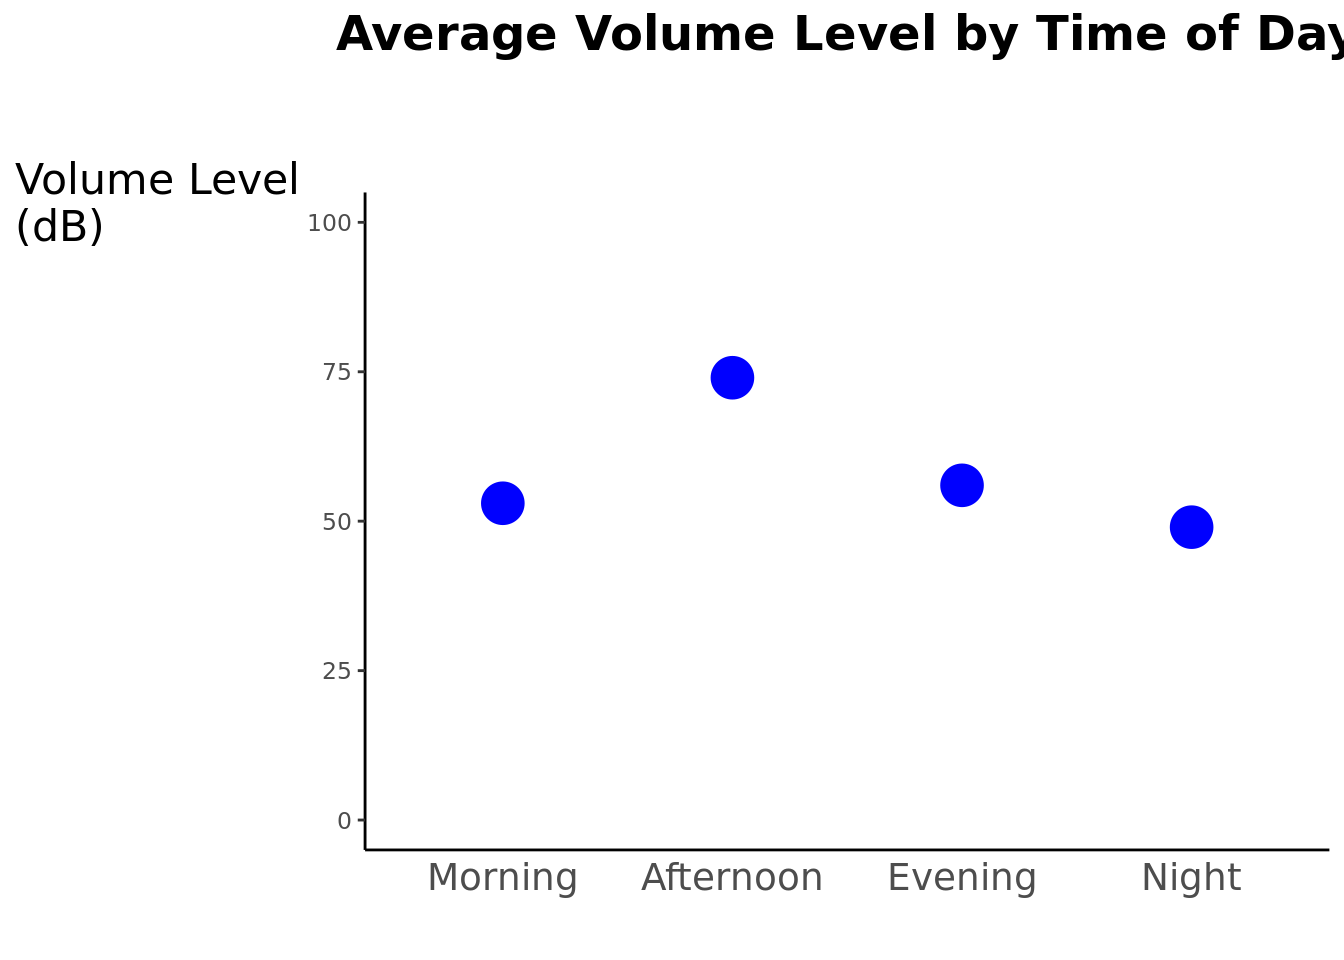
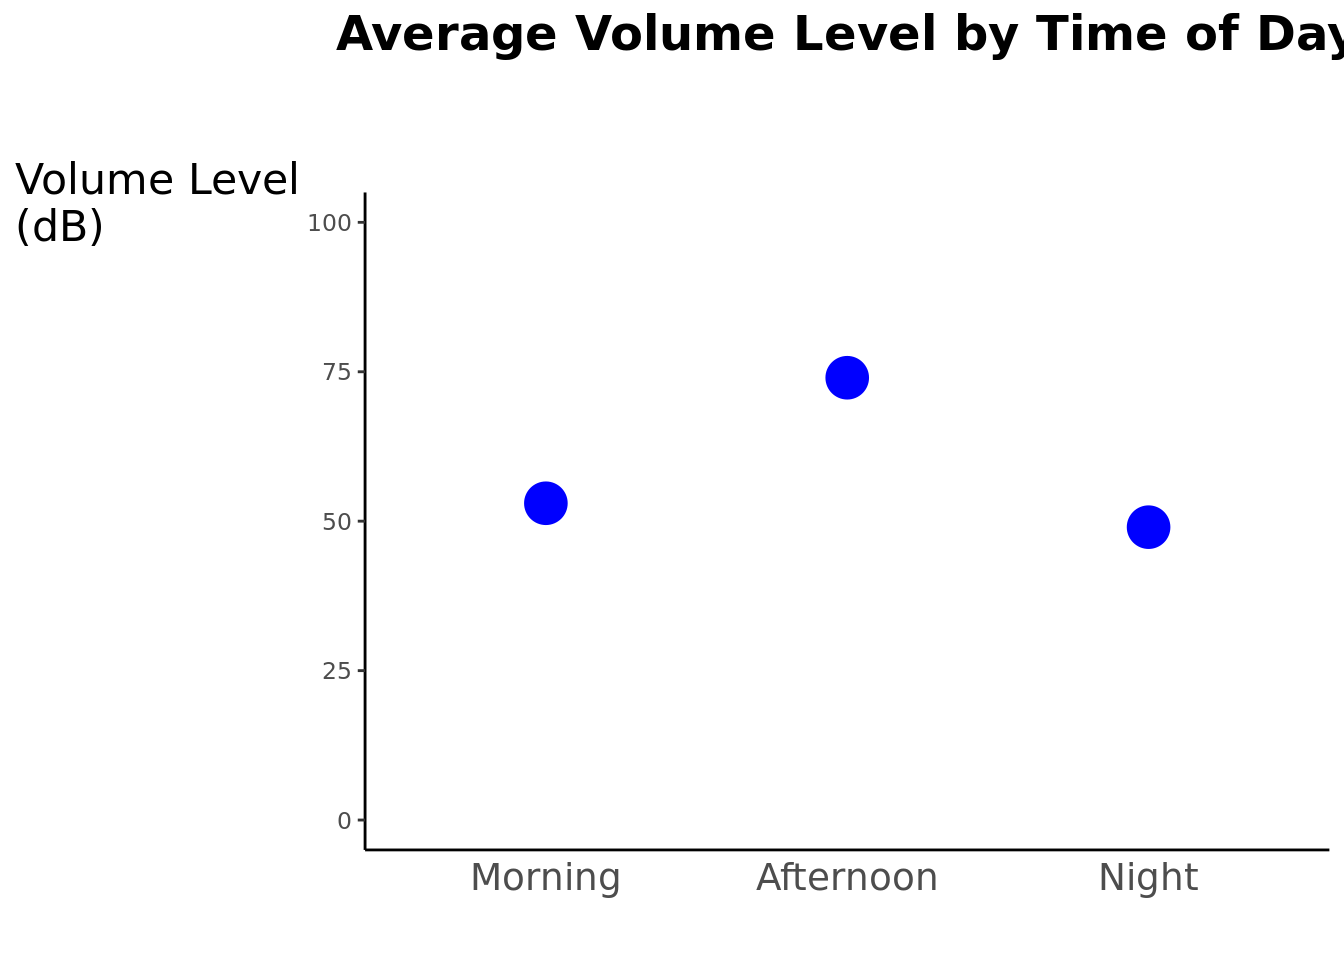
Added spotify data story

diff --git a/project-r-code.html b/project-r-code.html
@@ -207,7 +207,7 @@ dbl (1): Value
 </div>
 <div class="sourceCode cell-code" id="cb24"><pre class="sourceCode r code-with-copy"><code class="sourceCode r"><span id="cb24-1"><a href="#cb24-1" aria-hidden="true" tabindex="-1"></a>spotify_data <span class="ot">&lt;-</span> <span class="fu">read_csv</span>(<span class="st">"datasets/spotify_listening_habits.csv"</span>)</span></code><button title="Copy to Clipboard" class="code-copy-button"><i class="bi"></i></button></pre></div>
 <div class="cell-output cell-output-stderr">
-<pre><code>Rows: 12 Columns: 3
+<pre><code>Rows: 9 Columns: 3
 ── Column specification ────────────────────────────────────────────────────────
 Delimiter: ","
 chr (2): TimeOfDay, Measure
@@ -812,6 +812,133 @@ dbl (2): notebook_price, median_household_income
 </div>
 </div>
 <div class="sourceCode cell-code" id="cb63"><pre class="sourceCode r code-with-copy"><code class="sourceCode r"><span id="cb63-1"><a href="#cb63-1" aria-hidden="true" tabindex="-1"></a><span class="fu">ggsave</span>(<span class="st">"recycling_contam_Scatter.png"</span>, <span class="at">device =</span> <span class="st">"png"</span>, <span class="at">width =</span> <span class="dv">14</span>, <span class="at">height =</span> <span class="dv">8</span>)</span></code><button title="Copy to Clipboard" class="code-copy-button"><i class="bi"></i></button></pre></div>
+</div>
+<p>Spotify data story</p>
+<div class="cell">
+<div class="sourceCode cell-code" id="cb64"><pre class="sourceCode r code-with-copy"><code class="sourceCode r"><span id="cb64-1"><a href="#cb64-1" aria-hidden="true" tabindex="-1"></a>spotify_data <span class="ot">&lt;-</span> spotify_data <span class="sc">|&gt;</span></span>
+<span id="cb64-2"><a href="#cb64-2" aria-hidden="true" tabindex="-1"></a>  <span class="fu">mutate</span>(</span>
+<span id="cb64-3"><a href="#cb64-3" aria-hidden="true" tabindex="-1"></a>    <span class="at">TimeOfDay =</span> <span class="fu">factor</span>(TimeOfDay,</span>
+<span id="cb64-4"><a href="#cb64-4" aria-hidden="true" tabindex="-1"></a>                       <span class="at">levels =</span> <span class="fu">c</span>(<span class="st">"Morning"</span>, <span class="st">"Afternoon"</span>, <span class="st">"Night"</span>))</span>
+<span id="cb64-5"><a href="#cb64-5" aria-hidden="true" tabindex="-1"></a>  )</span>
+<span id="cb64-6"><a href="#cb64-6" aria-hidden="true" tabindex="-1"></a></span>
+<span id="cb64-7"><a href="#cb64-7" aria-hidden="true" tabindex="-1"></a>spotify_data <span class="sc">|&gt;</span></span>
+<span id="cb64-8"><a href="#cb64-8" aria-hidden="true" tabindex="-1"></a>  <span class="fu">filter</span>(Measure <span class="sc">==</span> <span class="st">"AvgListeningDuration"</span>) <span class="sc">|&gt;</span></span>
+<span id="cb64-9"><a href="#cb64-9" aria-hidden="true" tabindex="-1"></a>  <span class="fu">ggplot</span>(<span class="fu">aes</span>(<span class="at">x =</span> TimeOfDay, <span class="at">y =</span> Value)) <span class="sc">+</span></span>
+<span id="cb64-10"><a href="#cb64-10" aria-hidden="true" tabindex="-1"></a>  <span class="fu">geom_col</span>(<span class="at">fill =</span> <span class="st">"steelblue"</span>, <span class="at">width =</span> <span class="fl">0.4</span>) <span class="sc">+</span></span>
+<span id="cb64-11"><a href="#cb64-11" aria-hidden="true" tabindex="-1"></a>  <span class="fu">scale_y_continuous</span>(<span class="at">breaks =</span> <span class="fu">seq</span>(<span class="dv">0</span>, <span class="dv">60</span>, <span class="dv">10</span>),</span>
+<span id="cb64-12"><a href="#cb64-12" aria-hidden="true" tabindex="-1"></a>                     <span class="at">expand =</span> <span class="fu">expansion</span>(<span class="at">mult =</span> <span class="fu">c</span>(<span class="dv">0</span>, <span class="fl">0.05</span>))) <span class="sc">+</span></span>
+<span id="cb64-13"><a href="#cb64-13" aria-hidden="true" tabindex="-1"></a>  <span class="fu">labs</span>(<span class="at">x =</span> <span class="st">" "</span>, <span class="at">y =</span> <span class="st">"Duration</span><span class="sc">\n</span><span class="st">(mins)"</span>, </span>
+<span id="cb64-14"><a href="#cb64-14" aria-hidden="true" tabindex="-1"></a>       <span class="at">title =</span> <span class="st">"Avg. Listening Duration by Time of Day"</span>) <span class="sc">+</span></span>
+<span id="cb64-15"><a href="#cb64-15" aria-hidden="true" tabindex="-1"></a>  <span class="fu">theme_classic</span>() <span class="sc">+</span></span>
+<span id="cb64-16"><a href="#cb64-16" aria-hidden="true" tabindex="-1"></a>  <span class="fu">theme</span>(</span>
+<span id="cb64-17"><a href="#cb64-17" aria-hidden="true" tabindex="-1"></a>    <span class="at">axis.text.x =</span> <span class="fu">element_text</span>(<span class="at">size =</span> <span class="dv">14</span>),  </span>
+<span id="cb64-18"><a href="#cb64-18" aria-hidden="true" tabindex="-1"></a>    <span class="at">axis.title.x =</span> <span class="fu">element_text</span>(<span class="at">size =</span> <span class="dv">16</span>),</span>
+<span id="cb64-19"><a href="#cb64-19" aria-hidden="true" tabindex="-1"></a>    <span class="at">axis.title.y =</span> <span class="fu">element_text</span>(<span class="at">size =</span> <span class="dv">16</span>, <span class="at">angle =</span> <span class="dv">0</span>, <span class="at">vjust =</span> <span class="fl">1.05</span>, <span class="at">hjust =</span> <span class="dv">0</span>),</span>
+<span id="cb64-20"><a href="#cb64-20" aria-hidden="true" tabindex="-1"></a>    <span class="at">plot.title =</span> <span class="fu">element_text</span>(</span>
+<span id="cb64-21"><a href="#cb64-21" aria-hidden="true" tabindex="-1"></a>      <span class="at">face =</span> <span class="st">"bold"</span>, </span>
+<span id="cb64-22"><a href="#cb64-22" aria-hidden="true" tabindex="-1"></a>      <span class="at">hjust =</span> <span class="fl">0.5</span>,</span>
+<span id="cb64-23"><a href="#cb64-23" aria-hidden="true" tabindex="-1"></a>      <span class="at">size =</span> <span class="dv">18</span>,</span>
+<span id="cb64-24"><a href="#cb64-24" aria-hidden="true" tabindex="-1"></a>      <span class="at">margin =</span> <span class="fu">margin</span>(<span class="at">b =</span> <span class="dv">50</span>)</span>
+<span id="cb64-25"><a href="#cb64-25" aria-hidden="true" tabindex="-1"></a>    ),</span>
+<span id="cb64-26"><a href="#cb64-26" aria-hidden="true" tabindex="-1"></a>    <span class="at">axis.ticks.x =</span> <span class="fu">element_blank</span>(),</span>
+<span id="cb64-27"><a href="#cb64-27" aria-hidden="true" tabindex="-1"></a>    <span class="at">panel.grid.major =</span> <span class="fu">element_blank</span>(),  </span>
+<span id="cb64-28"><a href="#cb64-28" aria-hidden="true" tabindex="-1"></a>    <span class="at">panel.grid.minor =</span> <span class="fu">element_blank</span>()   </span>
+<span id="cb64-29"><a href="#cb64-29" aria-hidden="true" tabindex="-1"></a>  )</span></code><button title="Copy to Clipboard" class="code-copy-button"><i class="bi"></i></button></pre></div>
+<div class="cell-output-display">
+<div>
+<figure class="figure">
+<p><img src="project-r-code_files/figure-html/spotify-bar-chart-1.png" class="img-fluid figure-img" width="672"></p>
+</figure>
+</div>
+</div>
+<div class="sourceCode cell-code" id="cb65"><pre class="sourceCode r code-with-copy"><code class="sourceCode r"><span id="cb65-1"><a href="#cb65-1" aria-hidden="true" tabindex="-1"></a><span class="fu">ggsave</span>(<span class="st">"Spotify_duration_bar.png"</span>, <span class="at">device =</span> <span class="st">"png"</span>, <span class="at">width =</span> <span class="dv">8</span>, <span class="at">height =</span> <span class="dv">5</span>)</span></code><button title="Copy to Clipboard" class="code-copy-button"><i class="bi"></i></button></pre></div>
+</div>
+<div class="cell">
+<div class="sourceCode cell-code" id="cb66"><pre class="sourceCode r code-with-copy"><code class="sourceCode r"><span id="cb66-1"><a href="#cb66-1" aria-hidden="true" tabindex="-1"></a>df <span class="ot">&lt;-</span> spotify_data <span class="sc">|&gt;</span> <span class="fu">filter</span>(Measure <span class="sc">==</span> <span class="st">"AvgSongTempo"</span>)</span>
+<span id="cb66-2"><a href="#cb66-2" aria-hidden="true" tabindex="-1"></a></span>
+<span id="cb66-3"><a href="#cb66-3" aria-hidden="true" tabindex="-1"></a>ymax <span class="ot">&lt;-</span> <span class="fu">max</span>(df<span class="sc">$</span>Value, <span class="at">na.rm =</span> <span class="cn">TRUE</span>)</span>
+<span id="cb66-4"><a href="#cb66-4" aria-hidden="true" tabindex="-1"></a>yupper <span class="ot">&lt;-</span> <span class="fu">max</span>(<span class="dv">50</span>, <span class="fu">ceiling</span>(ymax <span class="sc">/</span> <span class="dv">10</span>) <span class="sc">*</span> <span class="dv">10</span>)</span>
+<span id="cb66-5"><a href="#cb66-5" aria-hidden="true" tabindex="-1"></a></span>
+<span id="cb66-6"><a href="#cb66-6" aria-hidden="true" tabindex="-1"></a></span>
+<span id="cb66-7"><a href="#cb66-7" aria-hidden="true" tabindex="-1"></a>spotify_data <span class="sc">|&gt;</span></span>
+<span id="cb66-8"><a href="#cb66-8" aria-hidden="true" tabindex="-1"></a>  <span class="fu">filter</span>(Measure <span class="sc">==</span> <span class="st">"AvgSongTempo"</span>) <span class="sc">|&gt;</span></span>
+<span id="cb66-9"><a href="#cb66-9" aria-hidden="true" tabindex="-1"></a>  <span class="fu">ggplot</span>(<span class="fu">aes</span>(<span class="at">x =</span> TimeOfDay, <span class="at">y =</span> Value)) <span class="sc">+</span></span>
+<span id="cb66-10"><a href="#cb66-10" aria-hidden="true" tabindex="-1"></a>  <span class="fu">geom_segment</span>(<span class="fu">aes</span>(<span class="at">xend =</span> TimeOfDay, <span class="at">yend =</span> <span class="dv">0</span>), <span class="at">color =</span> <span class="st">"blue"</span>, <span class="at">linewidth =</span> <span class="fl">1.8</span>) <span class="sc">+</span></span>
+<span id="cb66-11"><a href="#cb66-11" aria-hidden="true" tabindex="-1"></a>  <span class="fu">geom_point</span>(<span class="at">color =</span> <span class="st">"blue"</span>, <span class="at">size =</span> <span class="dv">7</span>) <span class="sc">+</span></span>
+<span id="cb66-12"><a href="#cb66-12" aria-hidden="true" tabindex="-1"></a>  <span class="fu">labs</span>(</span>
+<span id="cb66-13"><a href="#cb66-13" aria-hidden="true" tabindex="-1"></a>    <span class="at">title =</span> <span class="st">"Avg. Song Tempo by Time of Day"</span>,</span>
+<span id="cb66-14"><a href="#cb66-14" aria-hidden="true" tabindex="-1"></a>    <span class="at">x =</span> <span class="st">" "</span>,</span>
+<span id="cb66-15"><a href="#cb66-15" aria-hidden="true" tabindex="-1"></a>    <span class="at">y =</span> <span class="st">"Tempo</span><span class="sc">\n</span><span class="st">(bpm)"</span></span>
+<span id="cb66-16"><a href="#cb66-16" aria-hidden="true" tabindex="-1"></a>  ) <span class="sc">+</span></span>
+<span id="cb66-17"><a href="#cb66-17" aria-hidden="true" tabindex="-1"></a>  <span class="fu">scale_y_continuous</span>(</span>
+<span id="cb66-18"><a href="#cb66-18" aria-hidden="true" tabindex="-1"></a>    <span class="at">limits =</span> <span class="fu">c</span>(<span class="dv">0</span>, yupper),</span>
+<span id="cb66-19"><a href="#cb66-19" aria-hidden="true" tabindex="-1"></a>    <span class="at">breaks =</span> <span class="fu">seq</span>(<span class="dv">0</span>, yupper, <span class="at">by =</span> <span class="dv">25</span>),</span>
+<span id="cb66-20"><a href="#cb66-20" aria-hidden="true" tabindex="-1"></a>    <span class="at">expand =</span> <span class="fu">c</span>(<span class="dv">0</span>, <span class="dv">0</span>)</span>
+<span id="cb66-21"><a href="#cb66-21" aria-hidden="true" tabindex="-1"></a>  ) <span class="sc">+</span></span>
+<span id="cb66-22"><a href="#cb66-22" aria-hidden="true" tabindex="-1"></a>  <span class="fu">theme_classic</span>(<span class="at">base_size =</span> <span class="dv">16</span>) <span class="sc">+</span></span>
+<span id="cb66-23"><a href="#cb66-23" aria-hidden="true" tabindex="-1"></a>  <span class="fu">theme</span>(</span>
+<span id="cb66-24"><a href="#cb66-24" aria-hidden="true" tabindex="-1"></a>    <span class="at">plot.title =</span> <span class="fu">element_text</span>(</span>
+<span id="cb66-25"><a href="#cb66-25" aria-hidden="true" tabindex="-1"></a>      <span class="at">size =</span> <span class="dv">22</span>, </span>
+<span id="cb66-26"><a href="#cb66-26" aria-hidden="true" tabindex="-1"></a>      <span class="at">face =</span> <span class="st">"bold"</span>, </span>
+<span id="cb66-27"><a href="#cb66-27" aria-hidden="true" tabindex="-1"></a>      <span class="at">hjust =</span> <span class="fl">0.5</span>, </span>
+<span id="cb66-28"><a href="#cb66-28" aria-hidden="true" tabindex="-1"></a>      <span class="at">margin =</span> <span class="fu">margin</span>(<span class="at">t =</span> <span class="dv">20</span>, <span class="at">b =</span> <span class="dv">20</span>)</span>
+<span id="cb66-29"><a href="#cb66-29" aria-hidden="true" tabindex="-1"></a>    ),</span>
+<span id="cb66-30"><a href="#cb66-30" aria-hidden="true" tabindex="-1"></a>    <span class="at">axis.text =</span> <span class="fu">element_text</span>(<span class="at">size =</span> <span class="dv">14</span>),</span>
+<span id="cb66-31"><a href="#cb66-31" aria-hidden="true" tabindex="-1"></a>    <span class="at">axis.title.x =</span> <span class="fu">element_text</span>(<span class="at">size =</span> <span class="dv">16</span>, <span class="at">margin =</span> <span class="fu">margin</span>(<span class="at">t =</span> <span class="dv">20</span>, <span class="at">b =</span> <span class="dv">20</span>)),</span>
+<span id="cb66-32"><a href="#cb66-32" aria-hidden="true" tabindex="-1"></a>    <span class="at">axis.title.y =</span> <span class="fu">element_text</span>(</span>
+<span id="cb66-33"><a href="#cb66-33" aria-hidden="true" tabindex="-1"></a>      <span class="at">angle =</span> <span class="dv">0</span>,  <span class="co"># horizontal</span></span>
+<span id="cb66-34"><a href="#cb66-34" aria-hidden="true" tabindex="-1"></a>      <span class="at">vjust =</span> <span class="dv">1</span>,</span>
+<span id="cb66-35"><a href="#cb66-35" aria-hidden="true" tabindex="-1"></a>      <span class="at">hjust =</span> <span class="fl">0.5</span>,</span>
+<span id="cb66-36"><a href="#cb66-36" aria-hidden="true" tabindex="-1"></a>      <span class="at">size =</span> <span class="dv">16</span>,</span>
+<span id="cb66-37"><a href="#cb66-37" aria-hidden="true" tabindex="-1"></a>      <span class="at">margin =</span> <span class="fu">margin</span>(<span class="at">r =</span> <span class="dv">20</span>)</span>
+<span id="cb66-38"><a href="#cb66-38" aria-hidden="true" tabindex="-1"></a>    ),</span>
+<span id="cb66-39"><a href="#cb66-39" aria-hidden="true" tabindex="-1"></a>    <span class="at">axis.ticks.x =</span> <span class="fu">element_blank</span>(),</span>
+<span id="cb66-40"><a href="#cb66-40" aria-hidden="true" tabindex="-1"></a>    <span class="at">plot.margin =</span> <span class="fu">margin</span>(<span class="dv">10</span>, <span class="dv">20</span>, <span class="dv">10</span>, <span class="dv">40</span>)</span>
+<span id="cb66-41"><a href="#cb66-41" aria-hidden="true" tabindex="-1"></a>  ) <span class="sc">+</span></span>
+<span id="cb66-42"><a href="#cb66-42" aria-hidden="true" tabindex="-1"></a>  <span class="fu">coord_cartesian</span>(<span class="at">clip =</span> <span class="st">"off"</span>)</span></code><button title="Copy to Clipboard" class="code-copy-button"><i class="bi"></i></button></pre></div>
+<div class="cell-output-display">
+<div>
+<figure class="figure">
+<p><img src="project-r-code_files/figure-html/spotify-lollipop-1.png" class="img-fluid figure-img" width="672"></p>
+</figure>
+</div>
+</div>
+<div class="sourceCode cell-code" id="cb67"><pre class="sourceCode r code-with-copy"><code class="sourceCode r"><span id="cb67-1"><a href="#cb67-1" aria-hidden="true" tabindex="-1"></a><span class="fu">ggsave</span>(<span class="st">"Spotify_tempo_lollipop.png"</span>, <span class="at">device =</span> <span class="st">"png"</span>, <span class="at">width =</span> <span class="dv">8</span>, <span class="at">height =</span> <span class="dv">5</span>)</span></code><button title="Copy to Clipboard" class="code-copy-button"><i class="bi"></i></button></pre></div>
+</div>
+<div class="cell">
+<div class="sourceCode cell-code" id="cb68"><pre class="sourceCode r code-with-copy"><code class="sourceCode r"><span id="cb68-1"><a href="#cb68-1" aria-hidden="true" tabindex="-1"></a>spotify_data <span class="sc">|&gt;</span></span>
+<span id="cb68-2"><a href="#cb68-2" aria-hidden="true" tabindex="-1"></a>  <span class="fu">filter</span>(Measure <span class="sc">==</span> <span class="st">"AvgVolumeLevel"</span>) <span class="sc">|&gt;</span></span>
+<span id="cb68-3"><a href="#cb68-3" aria-hidden="true" tabindex="-1"></a>  <span class="fu">ggplot</span>(<span class="fu">aes</span>(<span class="at">x =</span> TimeOfDay, <span class="at">y =</span> Value)) <span class="sc">+</span> </span>
+<span id="cb68-4"><a href="#cb68-4" aria-hidden="true" tabindex="-1"></a>  <span class="fu">geom_point</span>(<span class="at">color =</span> <span class="st">"blue"</span>, <span class="at">size =</span> <span class="dv">7</span>) <span class="sc">+</span></span>
+<span id="cb68-5"><a href="#cb68-5" aria-hidden="true" tabindex="-1"></a>  <span class="fu">scale_y_continuous</span>(<span class="at">limits =</span> <span class="fu">c</span>(<span class="dv">0</span>, <span class="dv">100</span>)) <span class="sc">+</span></span>
+<span id="cb68-6"><a href="#cb68-6" aria-hidden="true" tabindex="-1"></a>  <span class="fu">labs</span>(</span>
+<span id="cb68-7"><a href="#cb68-7" aria-hidden="true" tabindex="-1"></a>    <span class="at">title =</span> <span class="st">"Avg. Volume Level by Time of Day"</span>,</span>
+<span id="cb68-8"><a href="#cb68-8" aria-hidden="true" tabindex="-1"></a>    <span class="at">x =</span> <span class="st">" "</span>,</span>
+<span id="cb68-9"><a href="#cb68-9" aria-hidden="true" tabindex="-1"></a>    <span class="at">y =</span> <span class="st">"Volume Level</span><span class="sc">\n</span><span class="st">(dB)"</span></span>
+<span id="cb68-10"><a href="#cb68-10" aria-hidden="true" tabindex="-1"></a>  ) <span class="sc">+</span></span>
+<span id="cb68-11"><a href="#cb68-11" aria-hidden="true" tabindex="-1"></a>  <span class="fu">theme_classic</span>() <span class="sc">+</span></span>
+<span id="cb68-12"><a href="#cb68-12" aria-hidden="true" tabindex="-1"></a>  <span class="fu">theme</span>(</span>
+<span id="cb68-13"><a href="#cb68-13" aria-hidden="true" tabindex="-1"></a>    <span class="at">axis.text.x =</span> <span class="fu">element_text</span>(<span class="at">size =</span> <span class="dv">14</span>),</span>
+<span id="cb68-14"><a href="#cb68-14" aria-hidden="true" tabindex="-1"></a>    <span class="at">axis.title.x =</span> <span class="fu">element_text</span>(<span class="at">size =</span> <span class="dv">16</span>),</span>
+<span id="cb68-15"><a href="#cb68-15" aria-hidden="true" tabindex="-1"></a>    <span class="at">axis.title.y =</span> <span class="fu">element_text</span>(<span class="at">size =</span> <span class="dv">16</span>, <span class="at">angle =</span> <span class="dv">0</span>, <span class="at">vjust =</span> <span class="fl">1.05</span>, <span class="at">hjust =</span> <span class="dv">0</span>),</span>
+<span id="cb68-16"><a href="#cb68-16" aria-hidden="true" tabindex="-1"></a>    <span class="at">plot.title =</span> <span class="fu">element_text</span>(</span>
+<span id="cb68-17"><a href="#cb68-17" aria-hidden="true" tabindex="-1"></a>      <span class="at">face =</span> <span class="st">"bold"</span>,</span>
+<span id="cb68-18"><a href="#cb68-18" aria-hidden="true" tabindex="-1"></a>      <span class="at">hjust =</span> <span class="fl">0.5</span>,</span>
+<span id="cb68-19"><a href="#cb68-19" aria-hidden="true" tabindex="-1"></a>      <span class="at">size =</span> <span class="dv">18</span>,</span>
+<span id="cb68-20"><a href="#cb68-20" aria-hidden="true" tabindex="-1"></a>      <span class="at">margin =</span> <span class="fu">margin</span>(<span class="at">b =</span> <span class="dv">50</span>)  </span>
+<span id="cb68-21"><a href="#cb68-21" aria-hidden="true" tabindex="-1"></a>    ),</span>
+<span id="cb68-22"><a href="#cb68-22" aria-hidden="true" tabindex="-1"></a>    <span class="at">axis.ticks.x =</span> <span class="fu">element_blank</span>(),</span>
+<span id="cb68-23"><a href="#cb68-23" aria-hidden="true" tabindex="-1"></a>    <span class="at">panel.grid.major =</span> <span class="fu">element_blank</span>(),</span>
+<span id="cb68-24"><a href="#cb68-24" aria-hidden="true" tabindex="-1"></a>    <span class="at">panel.grid.minor =</span> <span class="fu">element_blank</span>()</span>
+<span id="cb68-25"><a href="#cb68-25" aria-hidden="true" tabindex="-1"></a>  )</span></code><button title="Copy to Clipboard" class="code-copy-button"><i class="bi"></i></button></pre></div>
+<div class="cell-output-display">
+<div>
+<figure class="figure">
+<p><img src="project-r-code_files/figure-html/spotify-scatter-1.png" class="img-fluid figure-img" width="672"></p>
+</figure>
+</div>
+</div>
+<div class="sourceCode cell-code" id="cb69"><pre class="sourceCode r code-with-copy"><code class="sourceCode r"><span id="cb69-1"><a href="#cb69-1" aria-hidden="true" tabindex="-1"></a><span class="fu">ggsave</span>(<span class="st">"spotify_volume_Scatter.png"</span>, <span class="at">device =</span> <span class="st">"png"</span>, <span class="at">width =</span> <span class="dv">14</span>, <span class="at">height =</span> <span class="dv">8</span>)</span></code><button title="Copy to Clipboard" class="code-copy-button"><i class="bi"></i></button></pre></div>
 </div>
 
 </main>
